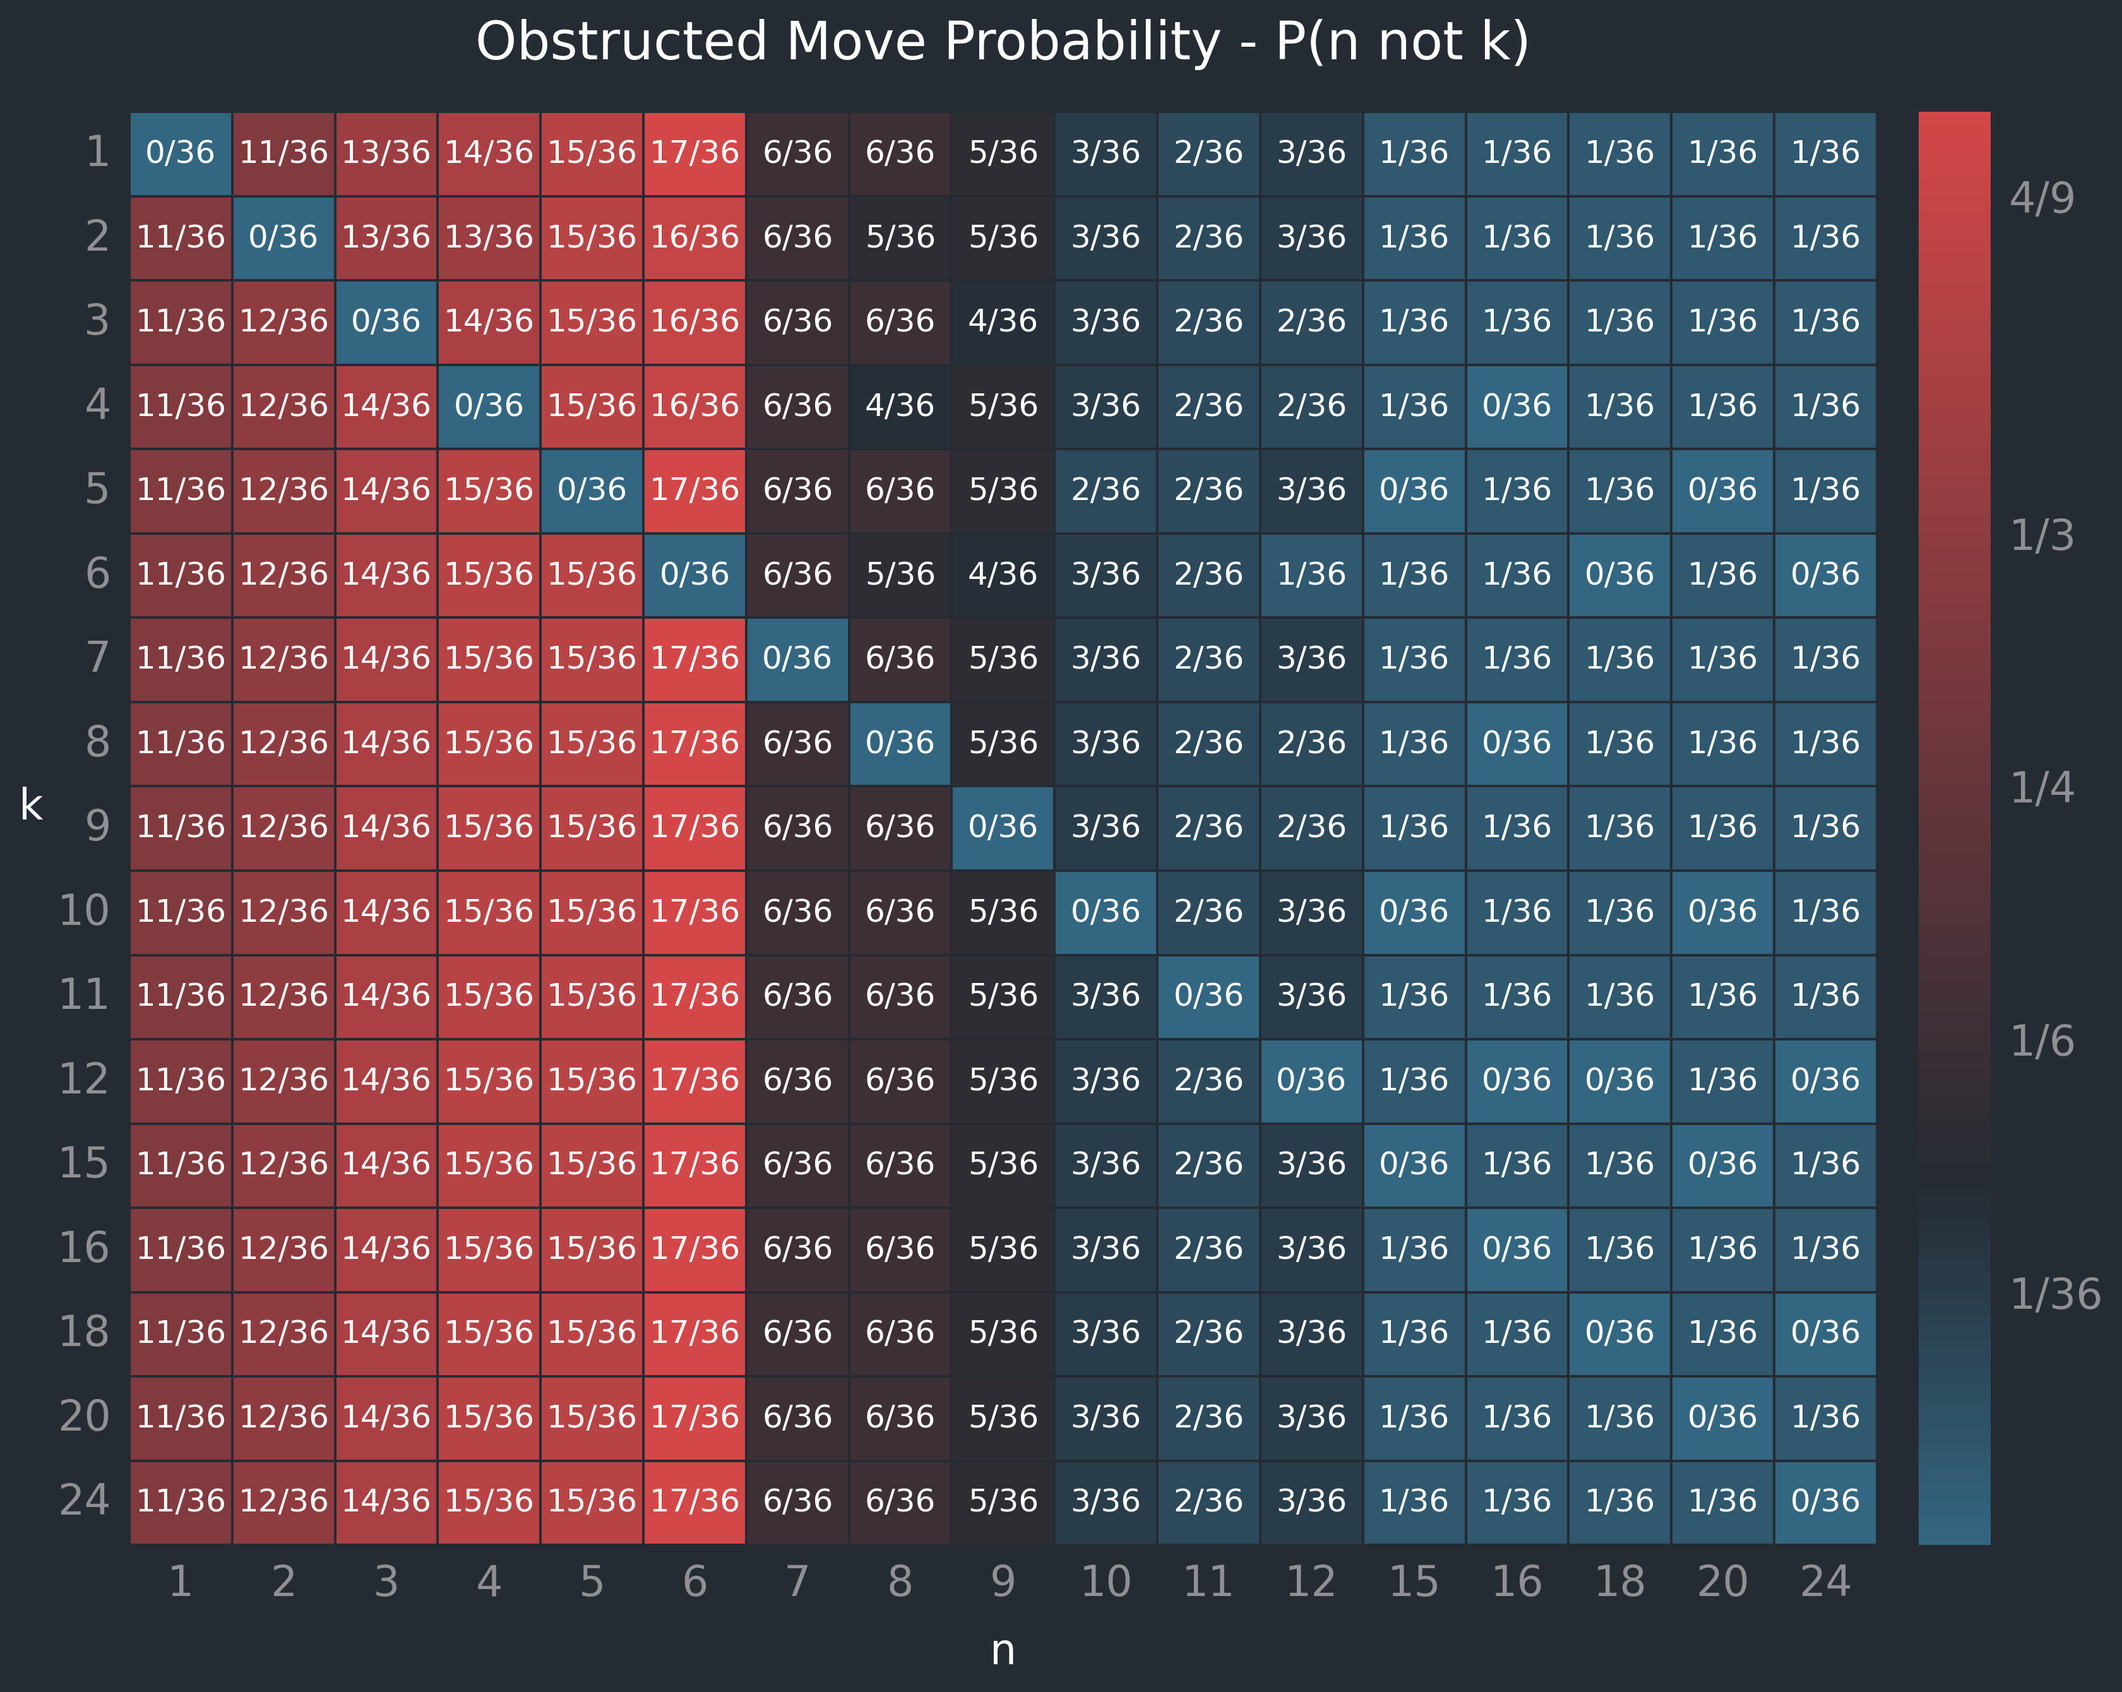
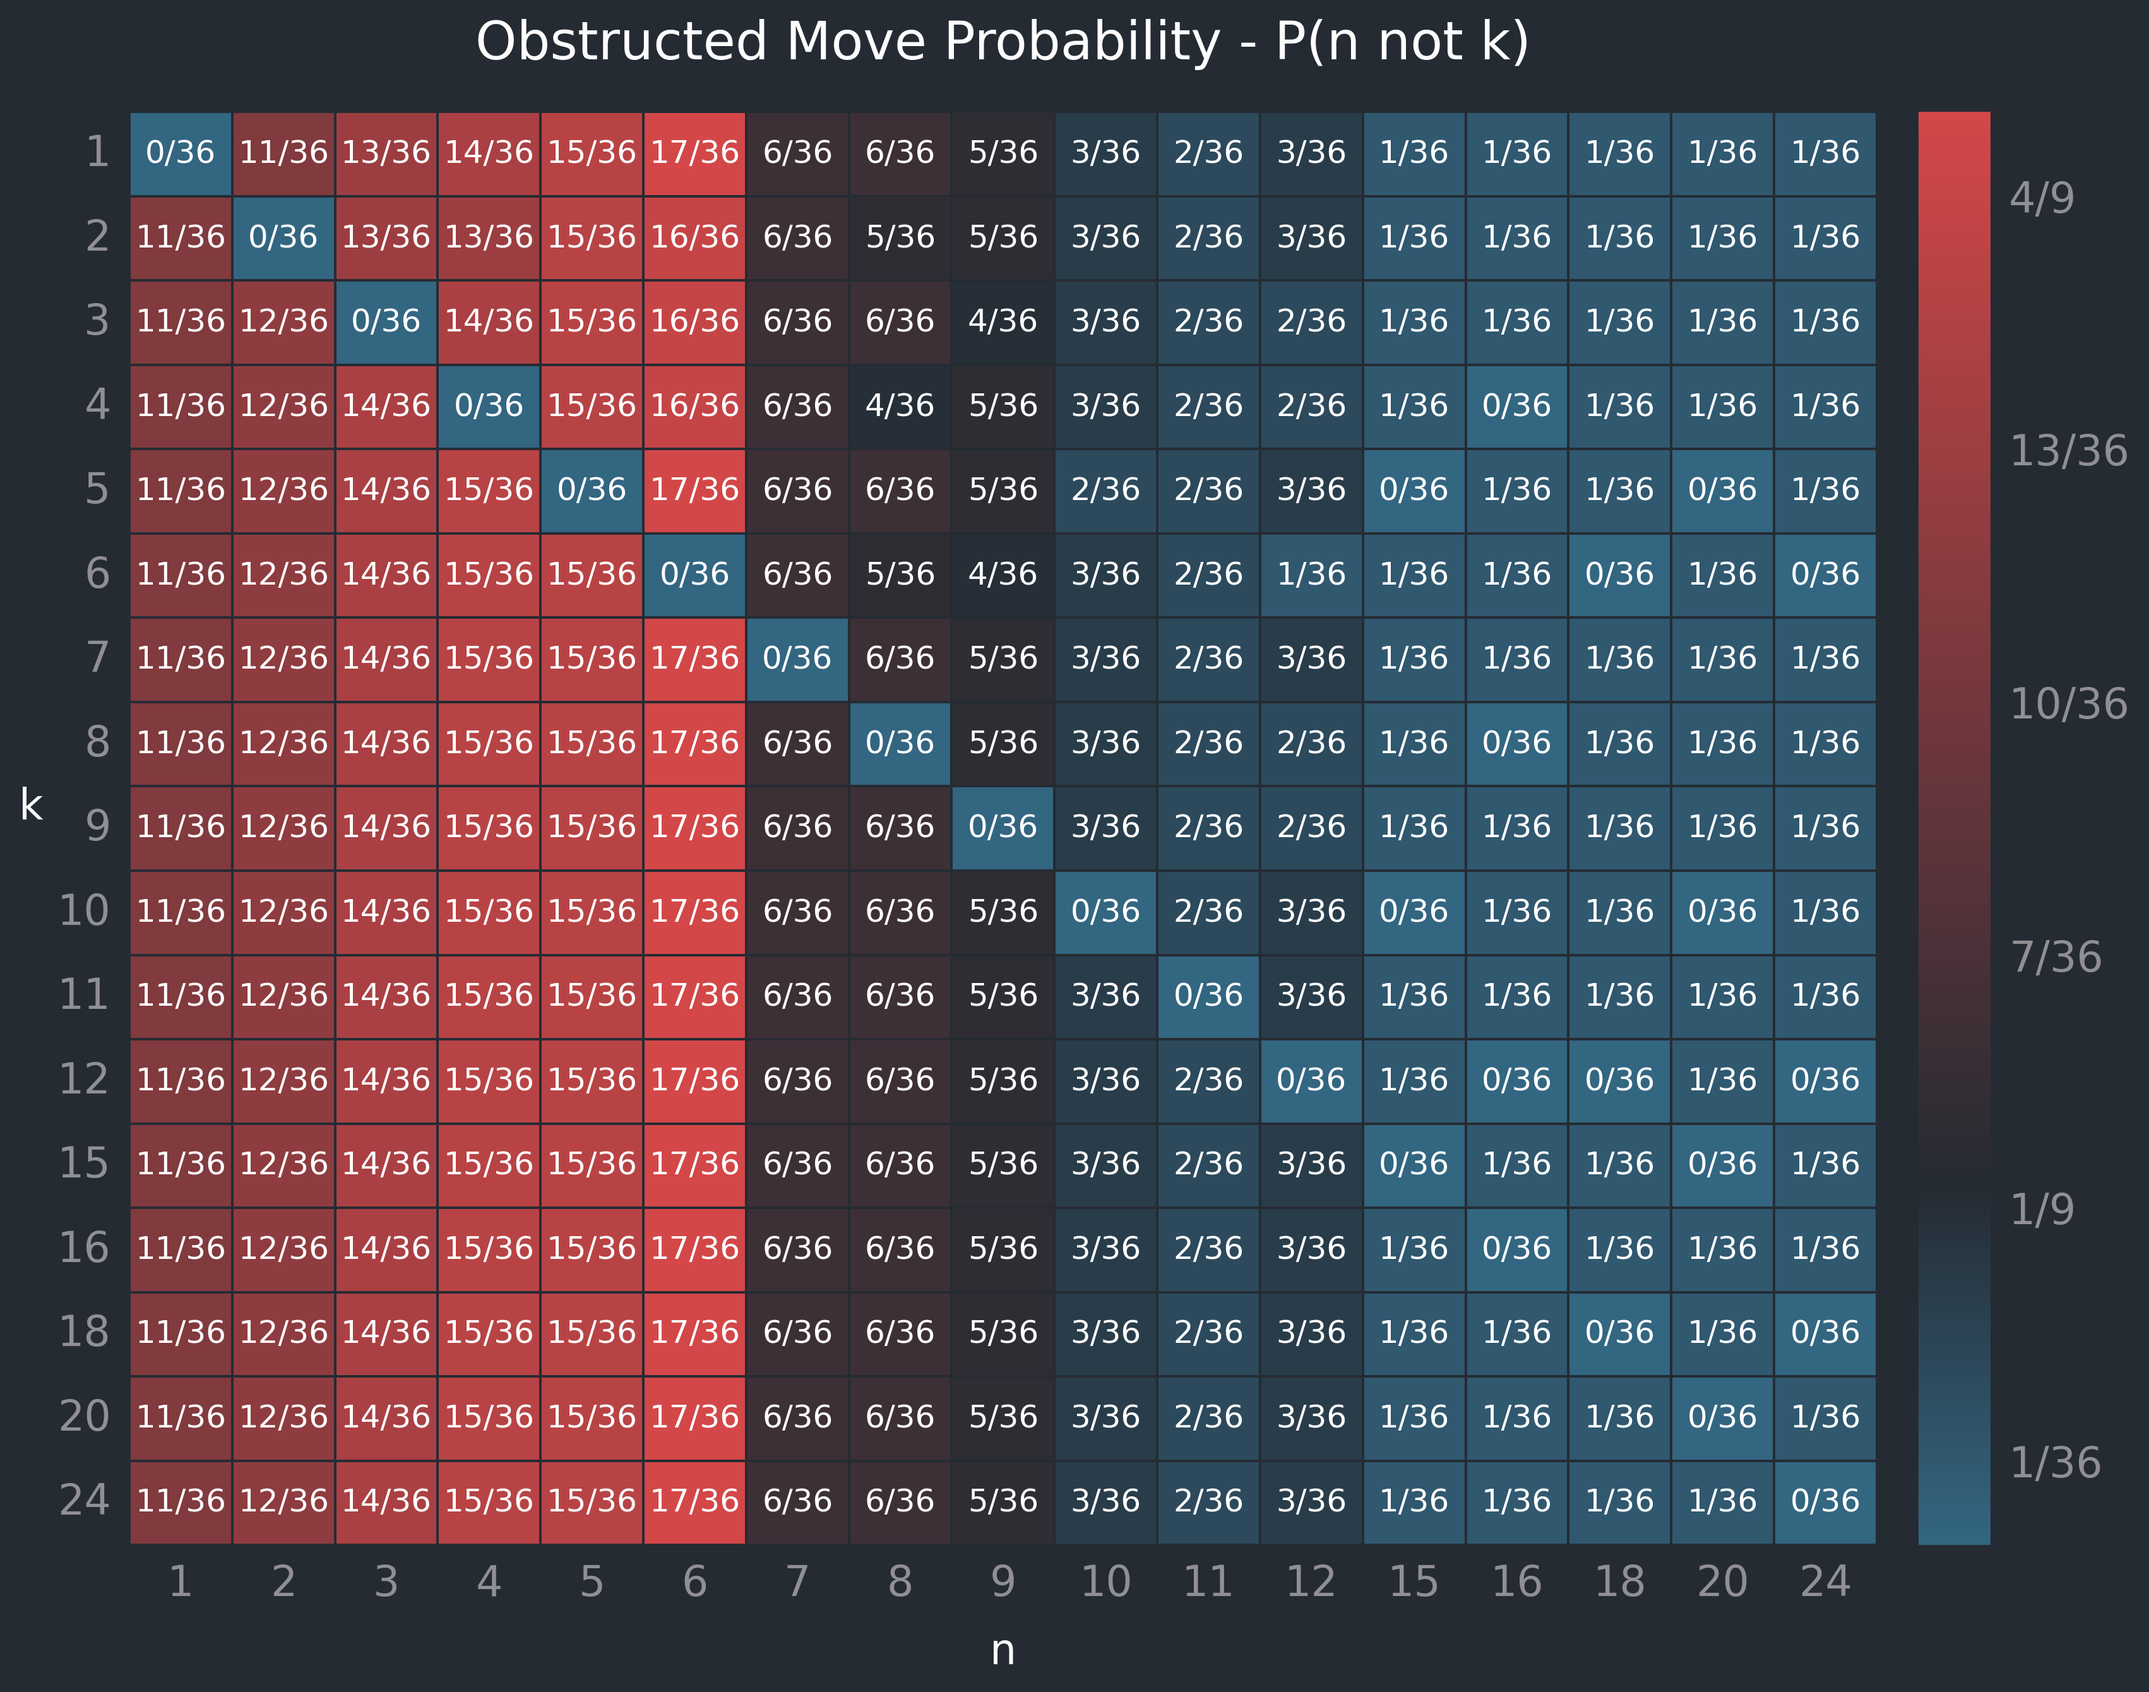
update plot colorbar scale

diff --git a/src/plots/plot_obstructed_probs.py b/src/plots/plot_obstructed_probs.py
@@ -5,7 +5,7 @@ import pandas as pd
 import seaborn as sns
 from typing import Literal
 
-PLOT: Literal["decimal", "fraction"] = "decimal"
+PLOT: Literal["decimal", "fraction"] = "fraction"
 
 palette = {
     "dark": "#252b33", "grey": "#45464d",
@@ -99,8 +99,9 @@ if PLOT == "decimal":
     cbar.set_ticklabels([".1", ".2", ".3", ".4"])
 
 elif PLOT == "fraction":
-    cbar.set_ticks([3, 6, 9, 12, 16])
-    cbar.set_ticklabels(["1/36", "1/6", "1/4", "1/3", "4/9"])
+    # cbar.set_ticks([1, 3, 6, 9, 12, 15])
+    cbar.set_ticks([1, 4, 7, 10, 13, 16])
+    cbar.set_ticklabels(["1/36", "1/9", "7/36", "10/36", "13/36", "4/9"])
 
 plt.tight_layout()
 
